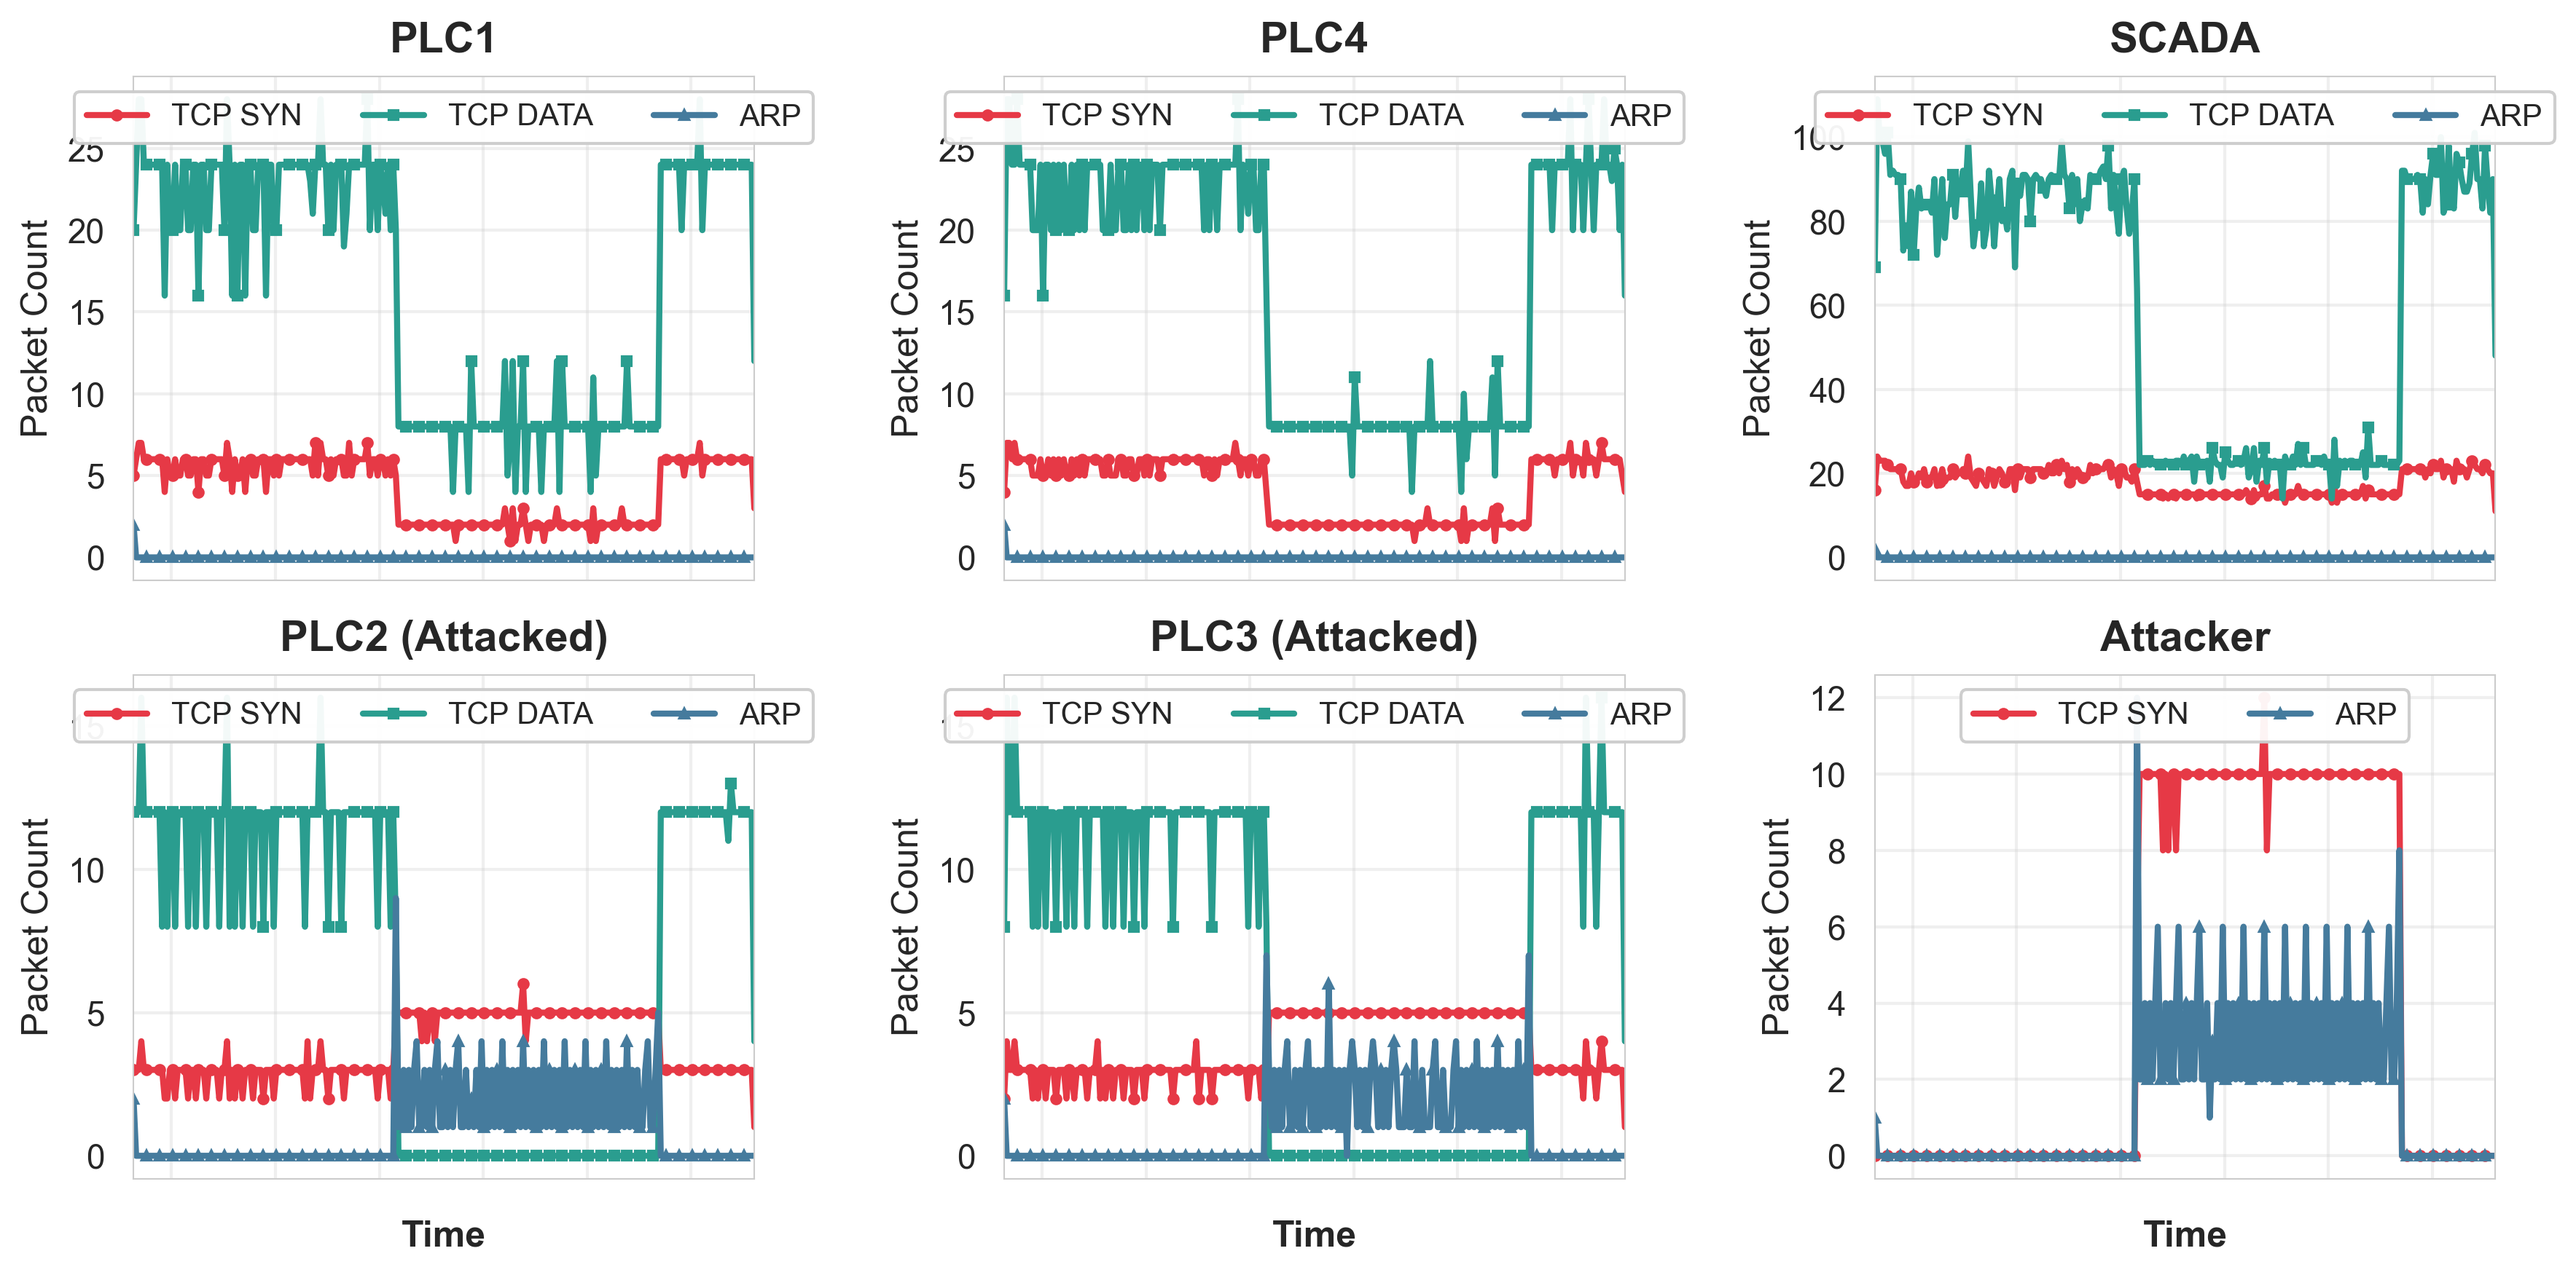
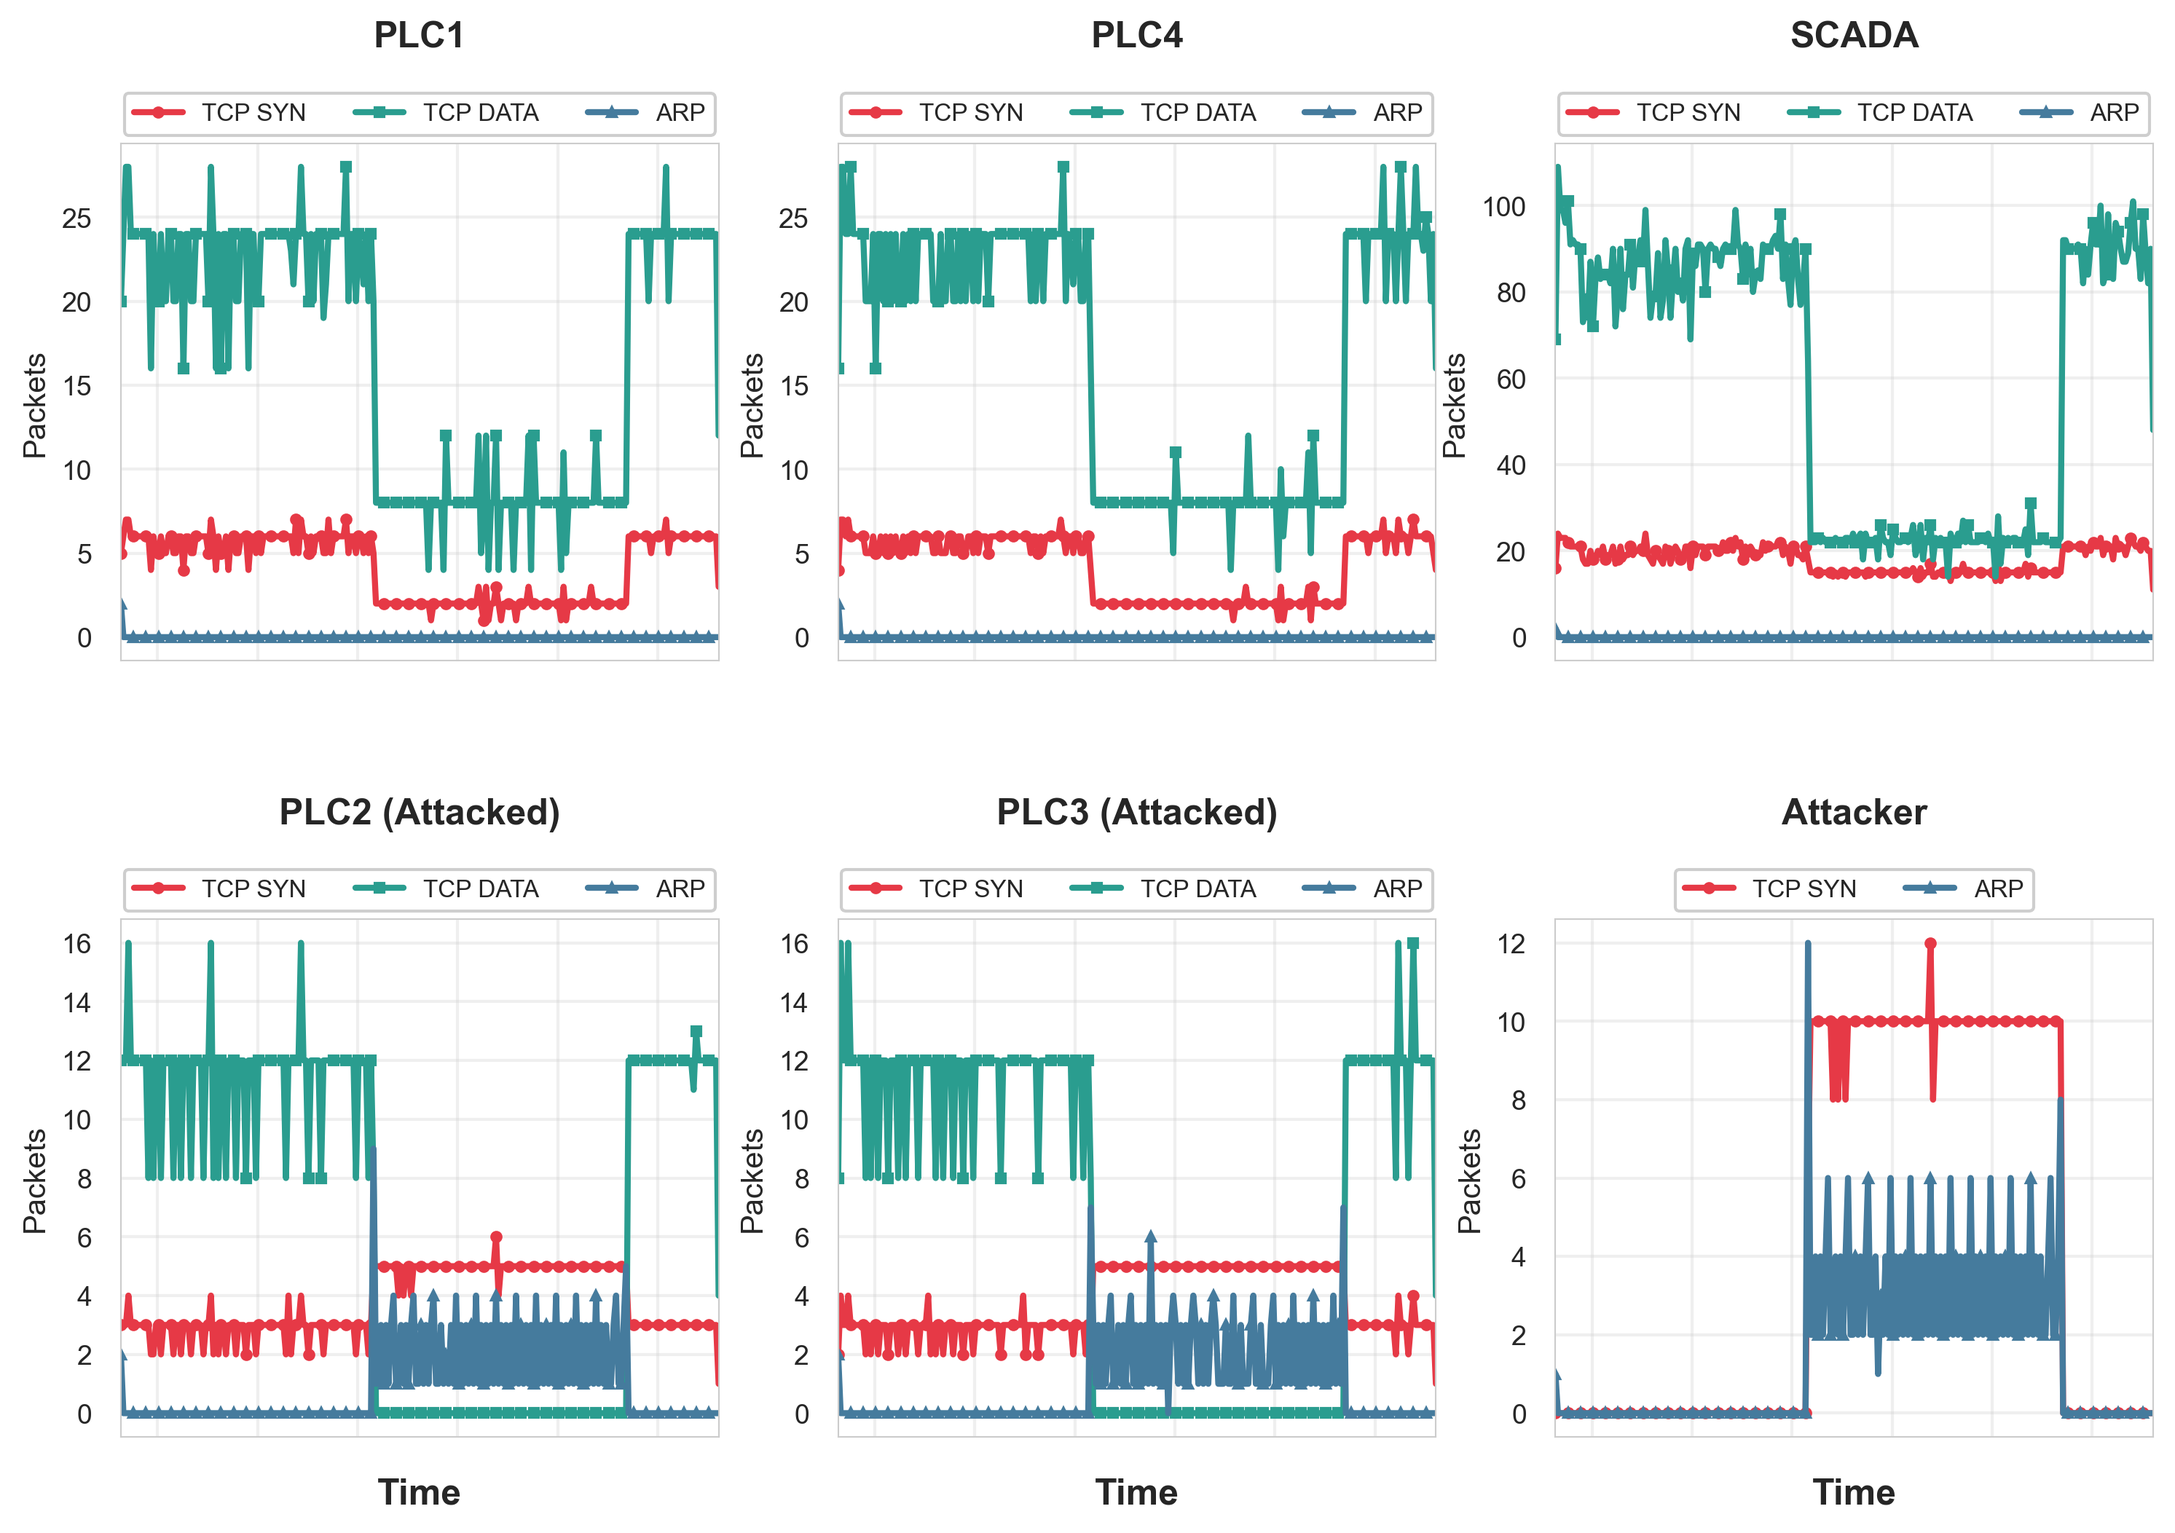
Improve all plots: larger fonts, centered legends, proper spacing

diff --git a/aaaMyViz/run_visualization.py b/aaaMyViz/run_visualization.py
@@ -52,9 +52,9 @@ def adjust_ylim(ax, columns, df, min_override=None, legend_space=0.25):
 
 def add_legend_top_center(ax):
     """Add legend at top center, outside the plot area."""
-    ax.legend(loc='upper center', bbox_to_anchor=(0.5, 1.02), ncol=3, frameon=True, 
-              fancybox=True, framealpha=1, fontsize=9)
-    ax.tick_params(axis='both', labelsize=9)
+    ax.legend(loc='upper center', bbox_to_anchor=(0.5, 1.12), ncol=3, frameon=True, 
+              fancybox=True, framealpha=0.95, fontsize=10)
+    ax.tick_params(axis='both', labelsize=11)
 
 # ============================================
 # 0. Cyber Layer - Packet Analysis (PCAP)
@@ -127,7 +127,7 @@ try:
                      global_max_time + timedelta(seconds=bin_size),
                      timedelta(seconds=bin_size)).astype(datetime)
 
-    fig, axes = plt.subplots(nrows=2, ncols=3, sharex=True, sharey=False, figsize=(12, 6))
+    fig, axes = plt.subplots(nrows=2, ncols=3, sharex=True, sharey=False, figsize=(12, 8))
     # Layout: PLCs on left/middle, SCADA and Attacker on right
     # [0,0] PLC1    [0,1] PLC3    [0,2] SCADA
     # [1,0] PLC2    [1,1] PLC4    [1,2] Attacker
@@ -162,12 +162,12 @@ try:
                            linewidth=style["linewidth"], marker=style["marker"],
                            markersize=style["markersize"], markevery=5)
 
-        ax.set_title(title, fontsize=14, fontweight="bold", pad=8)
-        ax.set_ylabel("Packet Count", fontsize=12)
-        ax.legend(loc="upper center", ncol=3, frameon=True, fancybox=True, framealpha=0.95, fontsize=10)
+        ax.set_title(title, fontsize=12, fontweight="bold", y=1.15)
+        ax.set_ylabel("Packets", fontsize=10)
+        ax.legend(loc="upper center", bbox_to_anchor=(0.5, 1.12), ncol=3, frameon=True, fancybox=True, framealpha=0.95, fontsize=8)
         ax.set_facecolor('white')
         ax.grid(True, alpha=0.3)
-        ax.tick_params(axis='both', labelsize=11)
+        ax.tick_params(axis='both', labelsize=9)
         ax.set_xlim(bin_centers[0], bin_centers[-1])
 
 
@@ -194,7 +194,7 @@ try:
             spine.set_linewidth(0.5)
             spine.set_color('#CCCCCC')
 
-    plt.tight_layout()
+    plt.subplots_adjust(top=0.85, hspace=0.5)
     plt.savefig('ScadaCaseNew/CyberLayer_PacketAnalysis.png', dpi=300, bbox_inches='tight')
     plt.close()
     print("   ✓ Saved: ScadaCaseNew/CyberLayer_PacketAnalysis.png")
@@ -226,7 +226,7 @@ try:
     axes[0].plot(ground_truth_df['iteration'], ground_truth_df['T2_LEVEL'], label='T2', color='green', linestyle='--', linewidth=2)
     axes[0].axvline(x=attack_start, color='red', linestyle='--', linewidth=2, label='Attack')
     axes[0].axvline(x=attack_end, color='red', linestyle='--', linewidth=2)
-    axes[0].set_title("Tank Levels", fontsize=14, fontweight='bold')
+    axes[0].set_title("Tank Levels", fontsize=14, fontweight='bold', y=1.15)
     axes[0].set_ylabel("Level (m)", fontsize=12)
     axes[0].grid(True, alpha=0.3)
     adjust_ylim(axes[0], ['T1_LEVEL', 'T2_LEVEL'], ground_truth_df)
@@ -237,7 +237,7 @@ try:
     axes[1].plot(ground_truth_df['iteration'], ground_truth_df['P2_FLOW'], label='P2', color='magenta', linewidth=2)
     axes[1].axvline(x=attack_start, color='red', linestyle='--', linewidth=2, label='Attack')
     axes[1].axvline(x=attack_end, color='red', linestyle='--', linewidth=2)
-    axes[1].set_title("Pump Flows", fontsize=14, fontweight='bold')
+    axes[1].set_title("Pump Flows", fontsize=14, fontweight='bold', y=1.15)
     axes[1].set_ylabel("Flow (CMH)", fontsize=12)
     axes[1].grid(True, alpha=0.3)
     adjust_ylim(axes[1], ['P1_FLOW', 'P2_FLOW'], ground_truth_df)
@@ -248,14 +248,14 @@ try:
     axes[2].plot(ground_truth_df['iteration'], ground_truth_df['J2_LEVEL'], label='J2', color='darkorange', linestyle='--', linewidth=2)
     axes[2].axvline(x=attack_start, color='red', linestyle='--', linewidth=2, label='Attack')
     axes[2].axvline(x=attack_end, color='red', linestyle='--', linewidth=2)
-    axes[2].set_title("Junction Pressures", fontsize=14, fontweight='bold')
+    axes[2].set_title("Junction Pressures", fontsize=14, fontweight='bold', y=1.15)
     axes[2].set_ylabel("Pressure (m)", fontsize=12)
     axes[2].set_xlabel("Time (steps)", fontsize=12)
     axes[2].grid(True, alpha=0.3)
     adjust_ylim(axes[2], ['J1_LEVEL', 'J2_LEVEL'], ground_truth_df, min_override=50)
     add_legend_top_center(axes[2])
 
-    plt.tight_layout()
+    plt.subplots_adjust(hspace=0.5)
     plt.savefig('ScadaCaseNew/DoS_NoGuard_GroundTruth.png', dpi=300, bbox_inches='tight')
     plt.close()
     print("   ✓ Saved: ScadaCaseNew/DoS_NoGuard_GroundTruth.png")
@@ -276,7 +276,7 @@ try:
     axes2[0].plot(scada_df['iteration'], scada_df['T2'], label='T2', color='green', linestyle='--', linewidth=2)
     axes2[0].axvline(x=attack_start, color='red', linestyle='--', linewidth=2, label='Attack')
     axes2[0].axvline(x=attack_end, color='red', linestyle='--', linewidth=2)
-    axes2[0].set_title("Tank Levels", fontsize=14, fontweight='bold')
+    axes2[0].set_title("Tank Levels", fontsize=14, fontweight='bold', y=1.15)
     axes2[0].set_ylabel("Level (m)", fontsize=12)
     axes2[0].grid(True, alpha=0.3)
     adjust_ylim(axes2[0], ['T1', 'T2'], scada_df)
@@ -287,7 +287,7 @@ try:
     axes2[1].plot(ground_truth_df['iteration'], ground_truth_df['P2_FLOW'], label='P2', color='magenta', linewidth=2)
     axes2[1].axvline(x=attack_start, color='red', linestyle='--', linewidth=2, label='Attack')
     axes2[1].axvline(x=attack_end, color='red', linestyle='--', linewidth=2)
-    axes2[1].set_title("Pump Flows", fontsize=14, fontweight='bold')
+    axes2[1].set_title("Pump Flows", fontsize=14, fontweight='bold', y=1.15)
     axes2[1].set_ylabel("Flow (CMH)", fontsize=12)
     axes2[1].grid(True, alpha=0.3)
     adjust_ylim(axes2[1], ['P1_FLOW', 'P2_FLOW'], ground_truth_df)
@@ -298,14 +298,14 @@ try:
     axes2[2].plot(scada_df['iteration'], scada_df['J2'], label='J2', color='darkorange', linestyle='--', linewidth=2)
     axes2[2].axvline(x=attack_start, color='red', linestyle='--', linewidth=2, label='Attack')
     axes2[2].axvline(x=attack_end, color='red', linestyle='--', linewidth=2)
-    axes2[2].set_title("Junction Pressures", fontsize=14, fontweight='bold')
+    axes2[2].set_title("Junction Pressures", fontsize=14, fontweight='bold', y=1.15)
     axes2[2].set_ylabel("Pressure (m)", fontsize=12)
     axes2[2].set_xlabel("Time (steps)", fontsize=12)
     axes2[2].grid(True, alpha=0.3)
     adjust_ylim(axes2[2], ['J1', 'J2'], scada_df, min_override=50)
     add_legend_top_center(axes2[2])
 
-    plt.tight_layout()
+    plt.subplots_adjust(hspace=0.5)
     plt.savefig('ScadaCaseNew/DoS_NoGuard_ScadaView.png', dpi=300, bbox_inches='tight')
     plt.close()
     print("   ✓ Saved: ScadaCaseNew/DoS_NoGuard_ScadaView.png")
@@ -333,7 +333,7 @@ try:
     axes3[0].plot(ground_truth_guard_df['iteration'], ground_truth_guard_df['T2_LEVEL'], label='T2', color='green', linestyle='--', linewidth=2)
     axes3[0].axvline(x=attack_start_guard, color='red', linestyle='--', linewidth=2, label='Attack')
     axes3[0].axvline(x=attack_end_guard, color='red', linestyle='--', linewidth=2)
-    axes3[0].set_title("Tank Levels", fontsize=14, fontweight='bold')
+    axes3[0].set_title("Tank Levels", fontsize=14, fontweight='bold', y=1.15)
     axes3[0].set_ylabel("Level (m)", fontsize=12)
     axes3[0].grid(True, alpha=0.3)
     adjust_ylim(axes3[0], ['T1_LEVEL', 'T2_LEVEL'], ground_truth_guard_df)
@@ -344,7 +344,7 @@ try:
     axes3[1].plot(ground_truth_guard_df['iteration'], ground_truth_guard_df['P2_FLOW'], label='P2', color='magenta', linewidth=2)
     axes3[1].axvline(x=attack_start_guard, color='red', linestyle='--', linewidth=2, label='Attack')
     axes3[1].axvline(x=attack_end_guard, color='red', linestyle='--', linewidth=2)
-    axes3[1].set_title("Pump Flows", fontsize=14, fontweight='bold')
+    axes3[1].set_title("Pump Flows", fontsize=14, fontweight='bold', y=1.15)
     axes3[1].set_ylabel("Flow (CMH)", fontsize=12)
     axes3[1].grid(True, alpha=0.3)
     adjust_ylim(axes3[1], ['P1_FLOW', 'P2_FLOW'], ground_truth_guard_df)
@@ -355,14 +355,14 @@ try:
     axes3[2].plot(ground_truth_guard_df['iteration'], ground_truth_guard_df['J2_LEVEL'], label='J2', color='darkorange', linestyle='--', linewidth=2)
     axes3[2].axvline(x=attack_start_guard, color='red', linestyle='--', linewidth=2, label='Attack')
     axes3[2].axvline(x=attack_end_guard, color='red', linestyle='--', linewidth=2)
-    axes3[2].set_title("Junction Pressures", fontsize=14, fontweight='bold')
+    axes3[2].set_title("Junction Pressures", fontsize=14, fontweight='bold', y=1.15)
     axes3[2].set_ylabel("Pressure (m)", fontsize=12)
     axes3[2].set_xlabel("Time (steps)", fontsize=12)
     axes3[2].grid(True, alpha=0.3)
     adjust_ylim(axes3[2], ['J1_LEVEL', 'J2_LEVEL'], ground_truth_guard_df, min_override=50)
     add_legend_top_center(axes3[2])
 
-    plt.tight_layout()
+    plt.subplots_adjust(hspace=0.5)
     plt.savefig('ScadaCaseNew/DoS_WithGuard_GroundTruth.png', dpi=300, bbox_inches='tight')
     plt.close()
     print("   ✓ Saved: ScadaCaseNew/DoS_WithGuard_GroundTruth.png")
@@ -383,7 +383,7 @@ try:
     axes4[0].plot(scada_guard_df['iteration'], scada_guard_df['T2'], label='T2', color='green', linestyle='--', linewidth=2)
     axes4[0].axvline(x=attack_start_guard, color='red', linestyle='--', linewidth=2, label='Attack')
     axes4[0].axvline(x=attack_end_guard, color='red', linestyle='--', linewidth=2)
-    axes4[0].set_title("Tank Levels", fontsize=14, fontweight='bold')
+    axes4[0].set_title("Tank Levels", fontsize=14, fontweight='bold', y=1.15)
     axes4[0].set_ylabel("Level (m)", fontsize=12)
     axes4[0].grid(True, alpha=0.3)
     adjust_ylim(axes4[0], ['T1', 'T2'], scada_guard_df)
@@ -394,7 +394,7 @@ try:
     axes4[1].plot(ground_truth_guard_df['iteration'], ground_truth_guard_df['P2_FLOW'], label='P2', color='magenta', linewidth=2)
     axes4[1].axvline(x=attack_start_guard, color='red', linestyle='--', linewidth=2, label='Attack')
     axes4[1].axvline(x=attack_end_guard, color='red', linestyle='--', linewidth=2)
-    axes4[1].set_title("Pump Flows", fontsize=14, fontweight='bold')
+    axes4[1].set_title("Pump Flows", fontsize=14, fontweight='bold', y=1.15)
     axes4[1].set_ylabel("Flow (CMH)", fontsize=12)
     axes4[1].grid(True, alpha=0.3)
     adjust_ylim(axes4[1], ['P1_FLOW', 'P2_FLOW'], ground_truth_guard_df)
@@ -405,14 +405,14 @@ try:
     axes4[2].plot(scada_guard_df['iteration'], scada_guard_df['J2'], label='J2', color='darkorange', linestyle='--', linewidth=2)
     axes4[2].axvline(x=attack_start_guard, color='red', linestyle='--', linewidth=2, label='Attack')
     axes4[2].axvline(x=attack_end_guard, color='red', linestyle='--', linewidth=2)
-    axes4[2].set_title("Junction Pressures", fontsize=14, fontweight='bold')
+    axes4[2].set_title("Junction Pressures", fontsize=14, fontweight='bold', y=1.15)
     axes4[2].set_ylabel("Pressure (m)", fontsize=12)
     axes4[2].set_xlabel("Time (steps)", fontsize=12)
     axes4[2].grid(True, alpha=0.3)
     adjust_ylim(axes4[2], ['J1', 'J2'], scada_guard_df, min_override=50)
     add_legend_top_center(axes4[2])
 
-    plt.tight_layout()
+    plt.subplots_adjust(hspace=0.5)
     plt.savefig('ScadaCaseNew/DoS_WithGuard_ScadaView.png', dpi=300, bbox_inches='tight')
     plt.close()
     print("   ✓ Saved: ScadaCaseNew/DoS_WithGuard_ScadaView.png")
